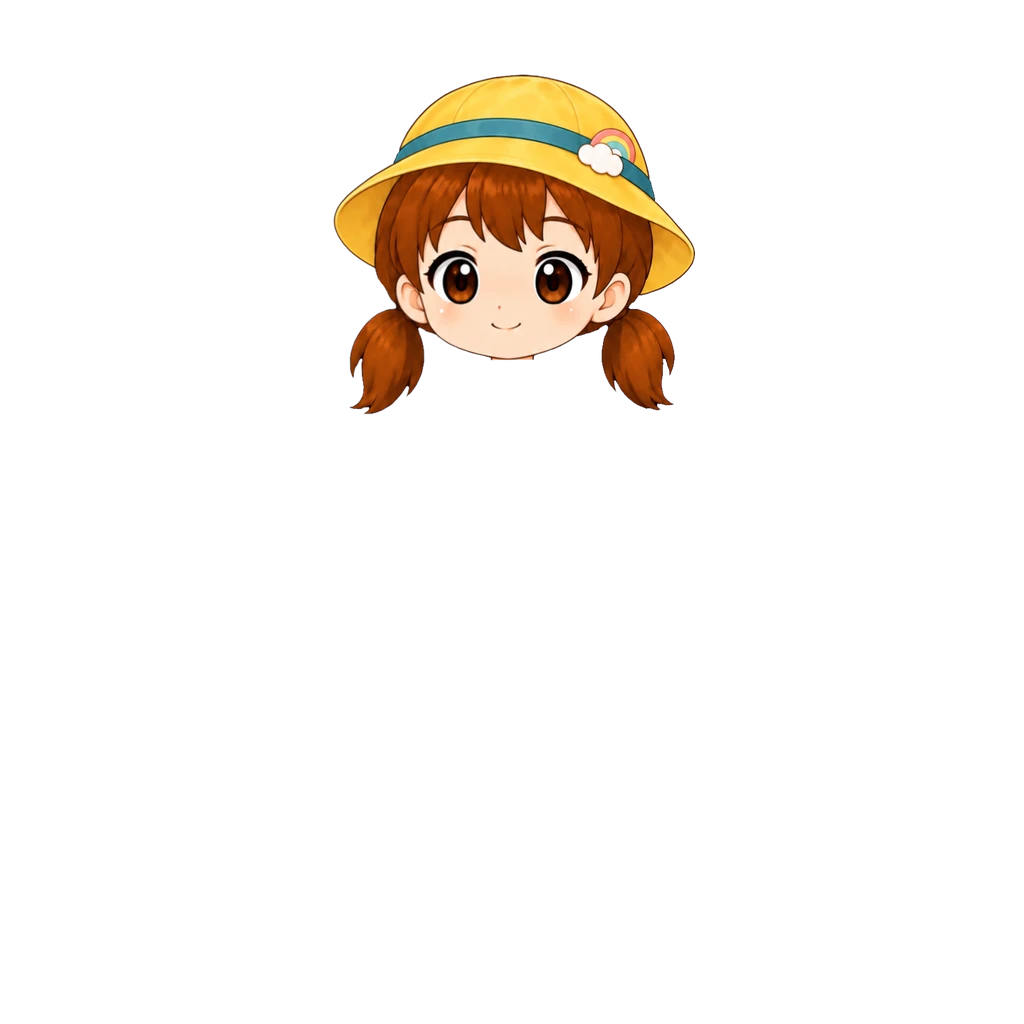
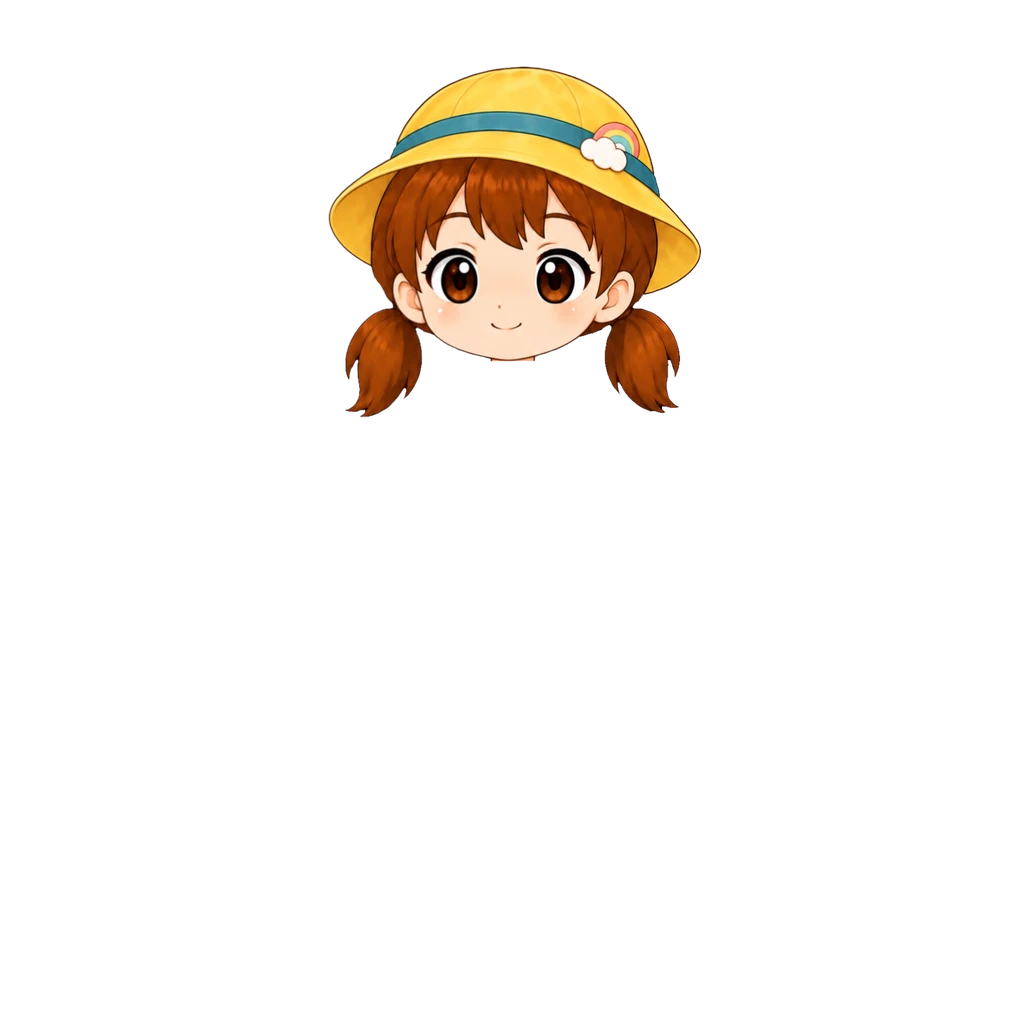
구름 모자(여아) 3% 크게 (#884)
턱·얼굴 가운데 고정으로 배율 0.676→0.6963. img ?v=2.

Claude-Session: https://claude.ai/code/session_018maNuYqDfFyRSe9uKpZhPR

Changed region(s): [[0.3125, 0.0625, 0.6875, 0.4062], [0.4688, 0.3438, 0.5312, 0.375]]

diff --git a/src/data/avatarEquipment.js b/src/data/avatarEquipment.js
@@ -241,8 +241,9 @@ export const AVATAR_CATALOG = [
   { id: "hat_chef_girl",  slot: "hat",   label: "요리사 모자", emoji: "👩🍳", price:DECOR_PRICE.rare, rarity: "rare", theme: "common", forGender: "girl", hidesHead: true, img: "assets/avatar/hat/chef-hat-girl.webp?v=5", thumb: "assets/avatar/thumb/hat_chef_girl.webp" },
   /* 구름 모자 [2026-10-04] — 여아. 노란 벙거지(청록 띠·무지개 구름 장식) + 얼굴·양갈래 머리 한 장(사용자 원화 535×505). 노란 우비룩과 짝.
      들꽃 머리띠와 같은 방식(hidesHead) — 얼굴 템플릿 매칭(일치 0.959)으로 배율 0.676, 원점 (333,74). 아래는 자르지 않음.
-     탑재 상자 (333,74,695,415). */
-  { id: "hat_cloud_girl", slot: "hat",   label: "구름 모자", emoji: "☁", price:DECOR_PRICE.rare, rarity: "rare", theme: "common", forGender: "girl", hidesHead: true, img: "assets/avatar/hat/cloud-hat-girl.webp", thumb: "assets/avatar/thumb/hat_cloud_girl.webp" },
+     탑재 상자 (333,74,695,415).
+     [2026-10-04] 사용자 조정 — 3% 크게(배율 0.6963, 턱·얼굴 가운데 고정, 원점 (328,66)). 탑재 상자 (328,66,701,418). img ?v=2. */
+  { id: "hat_cloud_girl", slot: "hat",   label: "구름 모자", emoji: "☁", price:DECOR_PRICE.rare, rarity: "rare", theme: "common", forGender: "girl", hidesHead: true, img: "assets/avatar/hat/cloud-hat-girl.webp?v=2", thumb: "assets/avatar/thumb/hat_cloud_girl.webp" },
   /* 남아 사파리 모자 [2026-10-02] — 모자+얼굴 한 장(사용자 원화)이라 hidesHead: 쓰면 머리카락 머리 장이 빠지고
      민머리 위에 얹힌다(베이스 v10 구조). 얼굴(눈~입) 템플릿 매칭으로 맞춤(배율 0.4065 · 일치 0.970).
      원화에 달린 목은 z50 이라 높은 깃(우주복·후드·도토리)을 덮어서 기본 머리 장처럼 y404 에서 잘랐다. */

diff --git a/art-src/README.md b/art-src/README.md
@@ -607,4 +607,4 @@ bbox로 여백만 잘라내고 배포본은 높이 480px로 축소했다(전부 
 | pirate-hat-boy-src.webp | **해적 모자 원화 남아 — 모자+얼굴 한 장 (사용자 원화 2026-10-04)** — 574×475 투명 배경, 남색 삼각 해적모(금 테두리·해골). hidesHead 로 기본 머리를 대신한다. 얼굴 템플릿 매칭(일치 0.972)으로 배율 0.712·원점 (318,58), y404 아래 자름. 탑재 상자 (318,58,727,396). **[2026-10-04 조정]** 아래로 4·왼쪽 1(원점 (317,62)) · img ?v=2. 상점 그림은 원화를 세로 160px 로 | avatar/hat/pirate-hat-boy.webp · thumb/hat_pirate_boy.webp |
 | post-cap-girl-src.webp | **우편부 모자 원화 여아 — 모자+얼굴 한 장 (사용자 원화 2026-10-04)** — 파란 우편모(날개 편지 배지) + 얼굴·양갈래 머리. hidesHead 로 여아 기본 머리를 대신한다. 얼굴 템플릿 매칭(일치 0.916)으로 배율 0.668·원점 (351,68), 아래는 자르지 않음. 탑재 상자 (351,68,678,418). **[2026-10-04 조정]** 3% 크게(0.688)·오른쪽 1, 원점 (347,60) · img ?v=2. 아래로 1(원점 (347,61)) · img ?v=3. 1% 크게(0.6949, 원점 (345,58)) · img ?v=4. 상점 그림은 원화를 세로 160px 로 | avatar/hat/post-cap-girl.webp · thumb/hat_post_girl.webp |
 | chef-hat-girl-src.webp | **요리사 모자 원화 여아 — 모자+얼굴 한 장 (사용자 원화 2026-10-04)** — 흰 요리사 모자(분홍 띠·크루아상 장식) + 얼굴·양갈래 머리. hidesHead 로 여아 기본 머리를 대신한다. 얼굴 템플릿 매칭(일치 0.924)으로 배율 0.660·원점 (348,28), 아래는 자르지 않음. 탑재 상자 (349,28,691,413). **[2026-10-04 조정]** 3% 크게(0.6798, 원점 (343,18)) · img ?v=2. 1% 더 크게(0.6866, 원점 (341,15)) · img ?v=3. 아래로 3(원점 (341,18)) · img ?v=4. 아래로 1 더(원점 (341,19)) · img ?v=5. 상점 그림은 원화를 세로 160px 로 | avatar/hat/chef-hat-girl.webp · thumb/hat_chef_girl.webp |
-| cloud-hat-girl-src.webp | **구름 모자 원화 여아 — 모자+얼굴 한 장 (사용자 원화 2026-10-04)** — 노란 벙거지(청록 띠·무지개 구름 장식) + 얼굴·양갈래 머리. hidesHead 로 여아 기본 머리를 대신한다. 얼굴 템플릿 매칭(일치 0.959)으로 배율 0.676·원점 (333,74), 아래는 자르지 않음. 탑재 상자 (333,74,695,415). 상점 그림은 원화를 세로 160px 로 | avatar/hat/cloud-hat-girl.webp · thumb/hat_cloud_girl.webp |
+| cloud-hat-girl-src.webp | **구름 모자 원화 여아 — 모자+얼굴 한 장 (사용자 원화 2026-10-04)** — 노란 벙거지(청록 띠·무지개 구름 장식) + 얼굴·양갈래 머리. hidesHead 로 여아 기본 머리를 대신한다. 얼굴 템플릿 매칭(일치 0.959)으로 배율 0.676·원점 (333,74), 아래는 자르지 않음. 탑재 상자 (333,74,695,415). **[2026-10-04 조정]** 3% 크게(0.6963, 원점 (328,66)) · img ?v=2. 상점 그림은 원화를 세로 160px 로 | avatar/hat/cloud-hat-girl.webp · thumb/hat_cloud_girl.webp |
